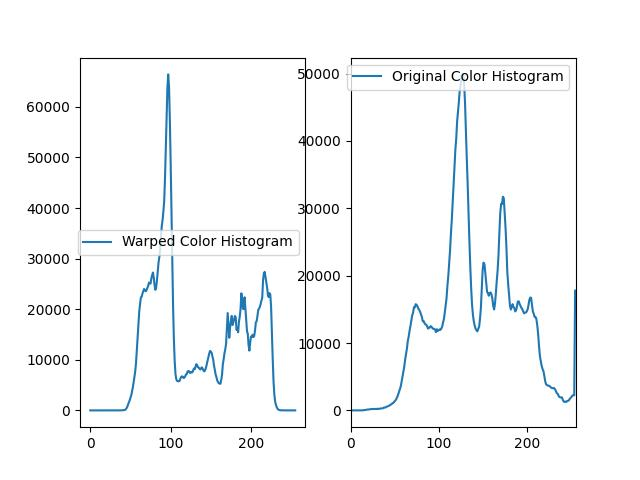
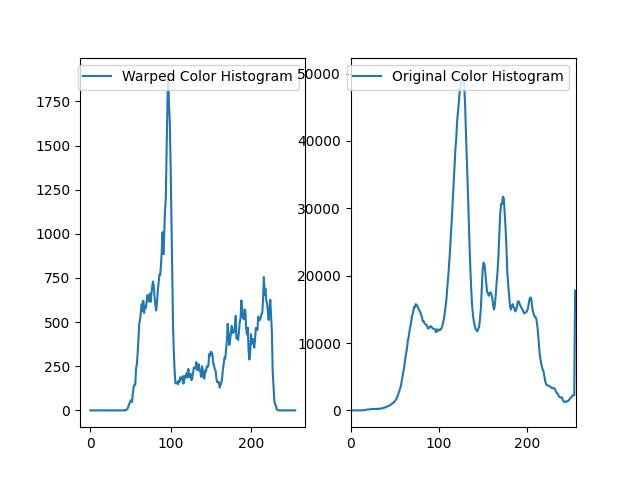
Add input parameters by console + fix resize

diff --git a/t1.py b/t1.py
@@ -6,6 +6,8 @@ import saveImage
 image = cv2.imread('testimages/foto1_cap1.jpg')
 imageOriginal = cv2.imread('testimages/foto1_gt.jpg')
 click_list = []
+width_cm = float(input("Informe a largura da imagem em cm: "))
+height_cm = float(input("Informe a altura da imagem em cm: "))
 
 def getClicks(event, x, y, flags, params):
     if event == cv2.EVENT_LBUTTONDOWN:
@@ -40,11 +42,12 @@ def getRect():
     rect[3] = click_list[3]
     return rect
 
-def resizeImage(image):
-    width = imageOriginal.shape[1]
-    height = imageOriginal.shape[0]
-    dim = (width, height)
-    resized = cv2.resize(image, dim, interpolation = cv2.INTER_AREA)
+def resizeImage(imagem):
+    
+    height_pixels, width_pixels, _ = image.shape
+    
+    dim = (int(height_pixels / height_cm), int(width_pixels / width_cm))
+    resized = cv2.resize(imagem, dim, interpolation = cv2.INTER_AREA)
     
     return resized
 
@@ -99,10 +102,8 @@ def plotGraphs(image):
         originalColorHistr = cv2.calcHist([imageOriginal],[i],None,[256],[0,256])
         plt.xlim([0,256])
     ax[1].plot(originalColorHistr,label="Original Color Histogram")
-
     ax[0].legend()
     ax[1].legend()
-   
     fig.savefig("createdImages/colorHistograms.jpg")
    
     plt.show()
@@ -116,7 +117,7 @@ def main():
     warped = fourPointTransform(image, rect)
     saveImage.main(warped, "Cortada")
     plotGraphs(warped)
-    psnr = cv2.PSNR(warped, imageOriginal)
+    psnr = cv2.PSNR(warped, resizeImage(imageOriginal))
     print("PSNR: ",psnr)
 
     cv2.waitKey(0)
